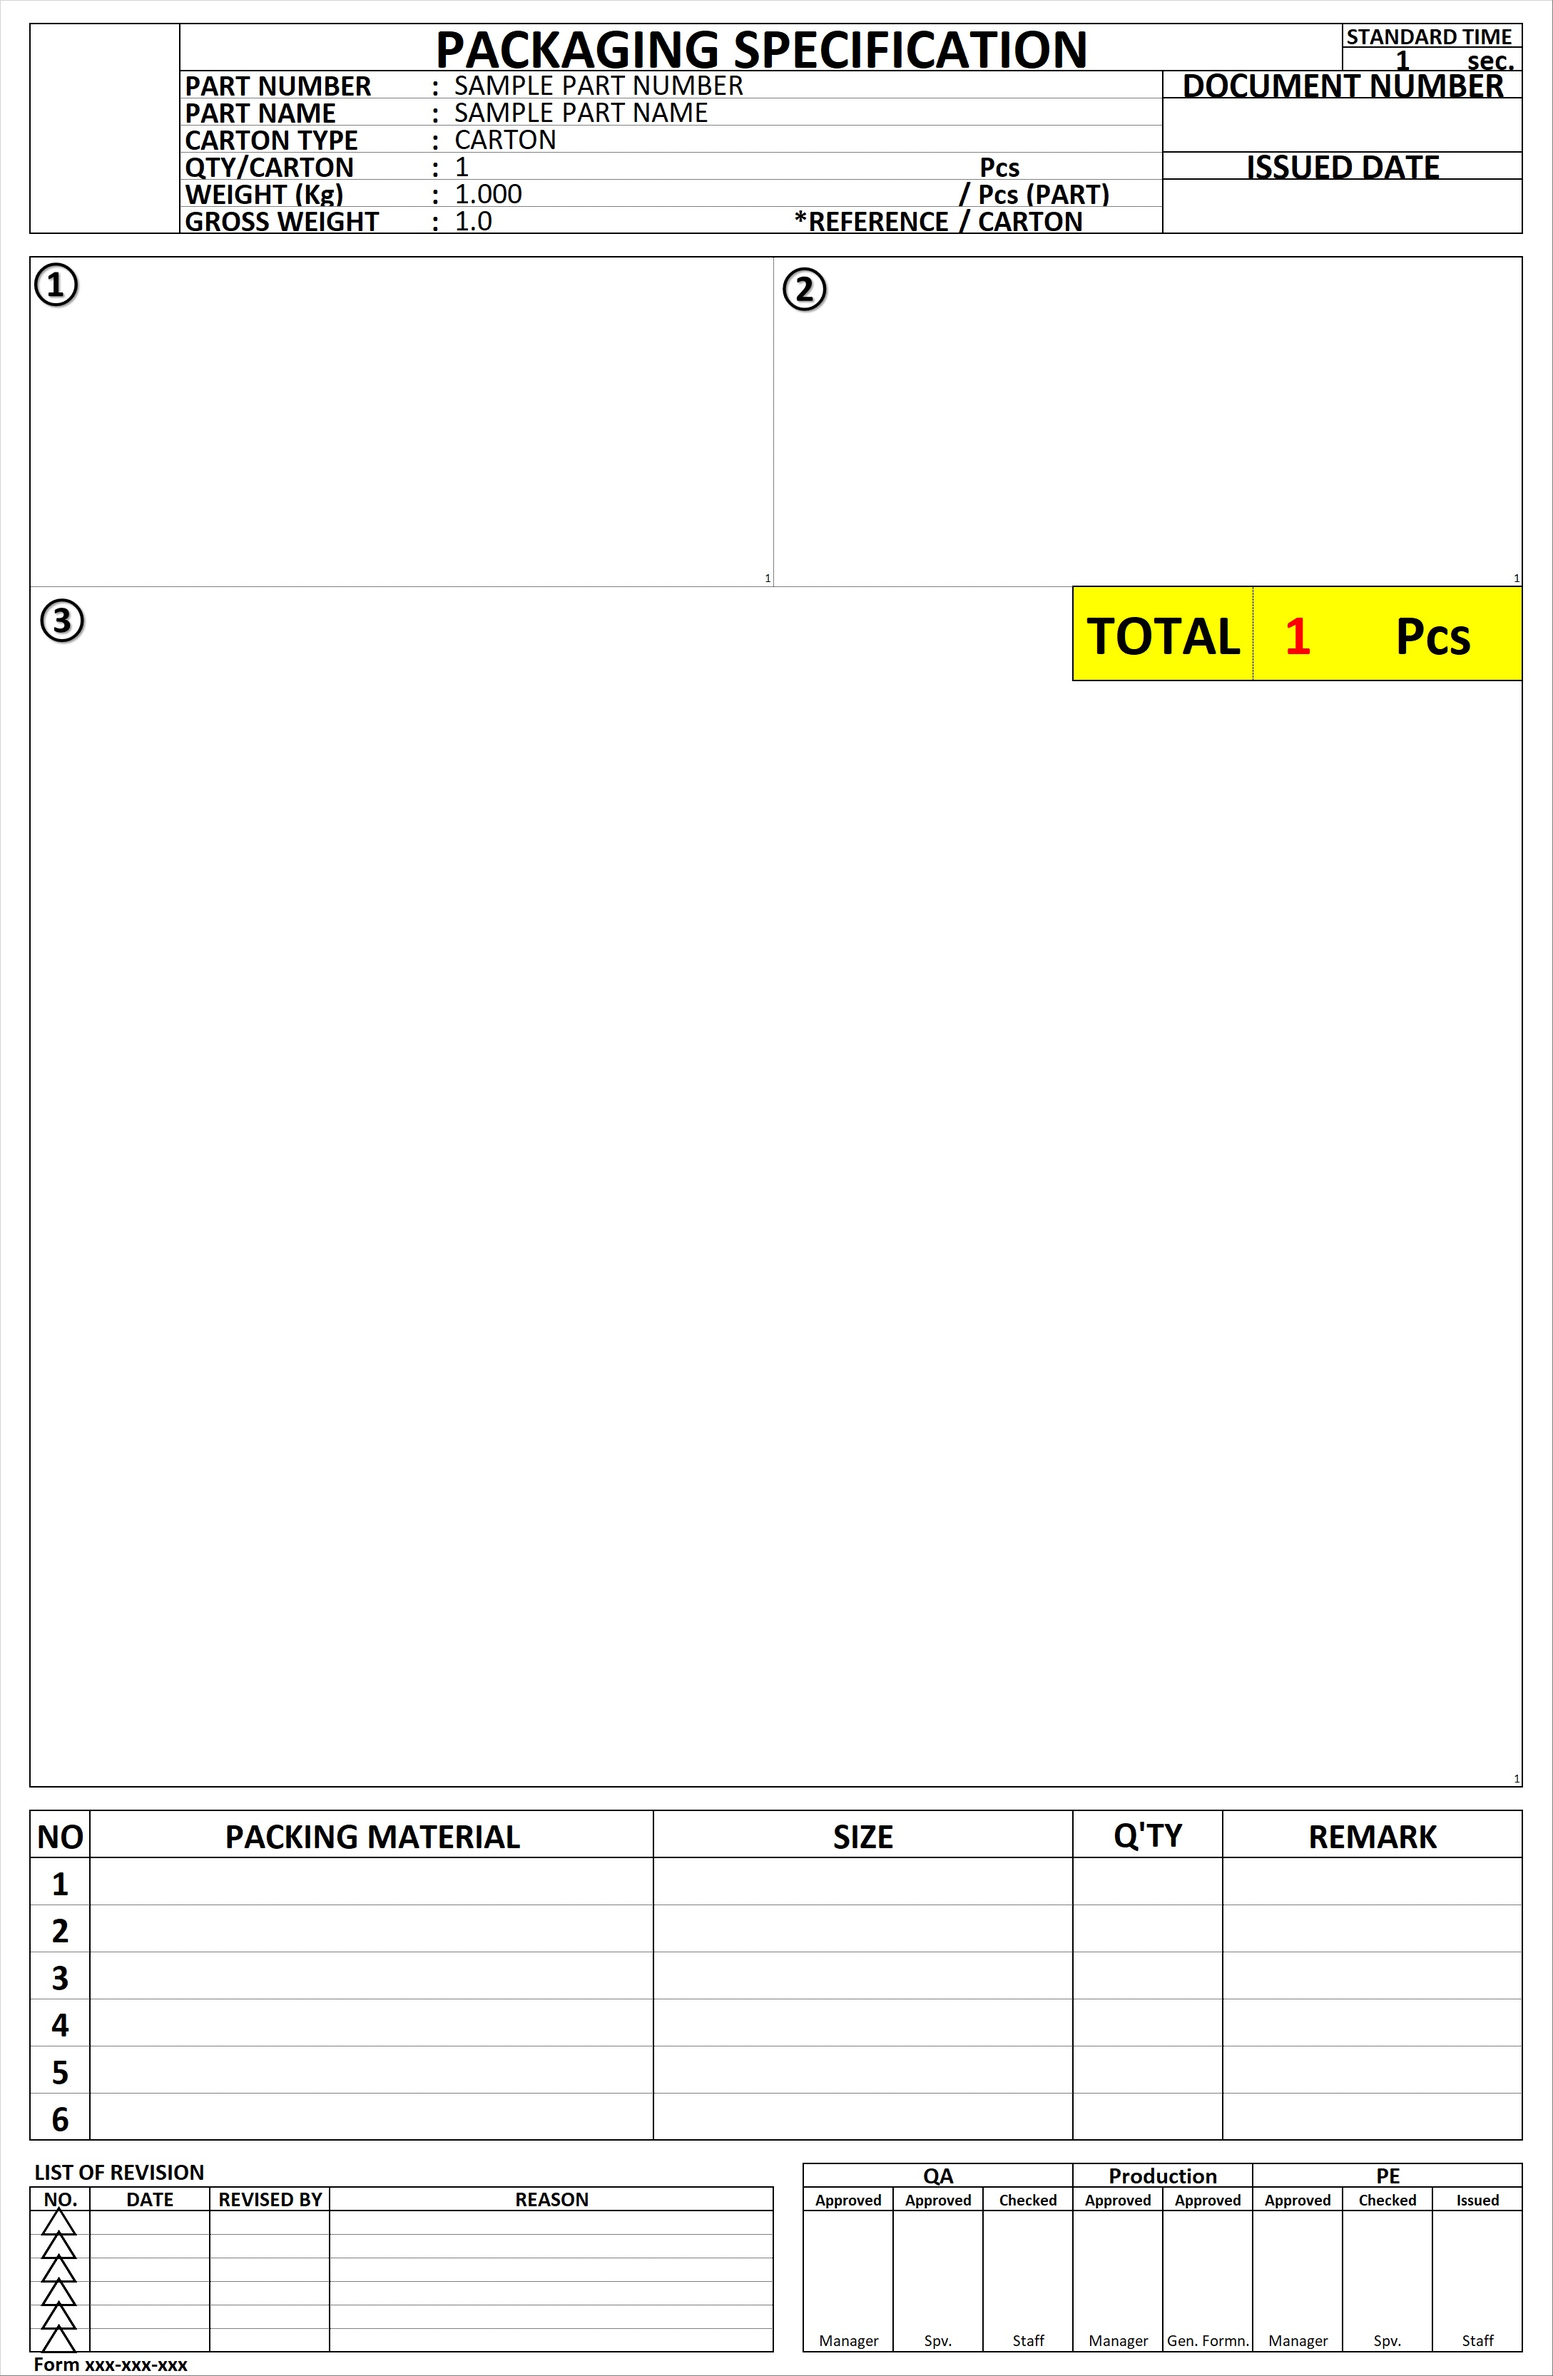
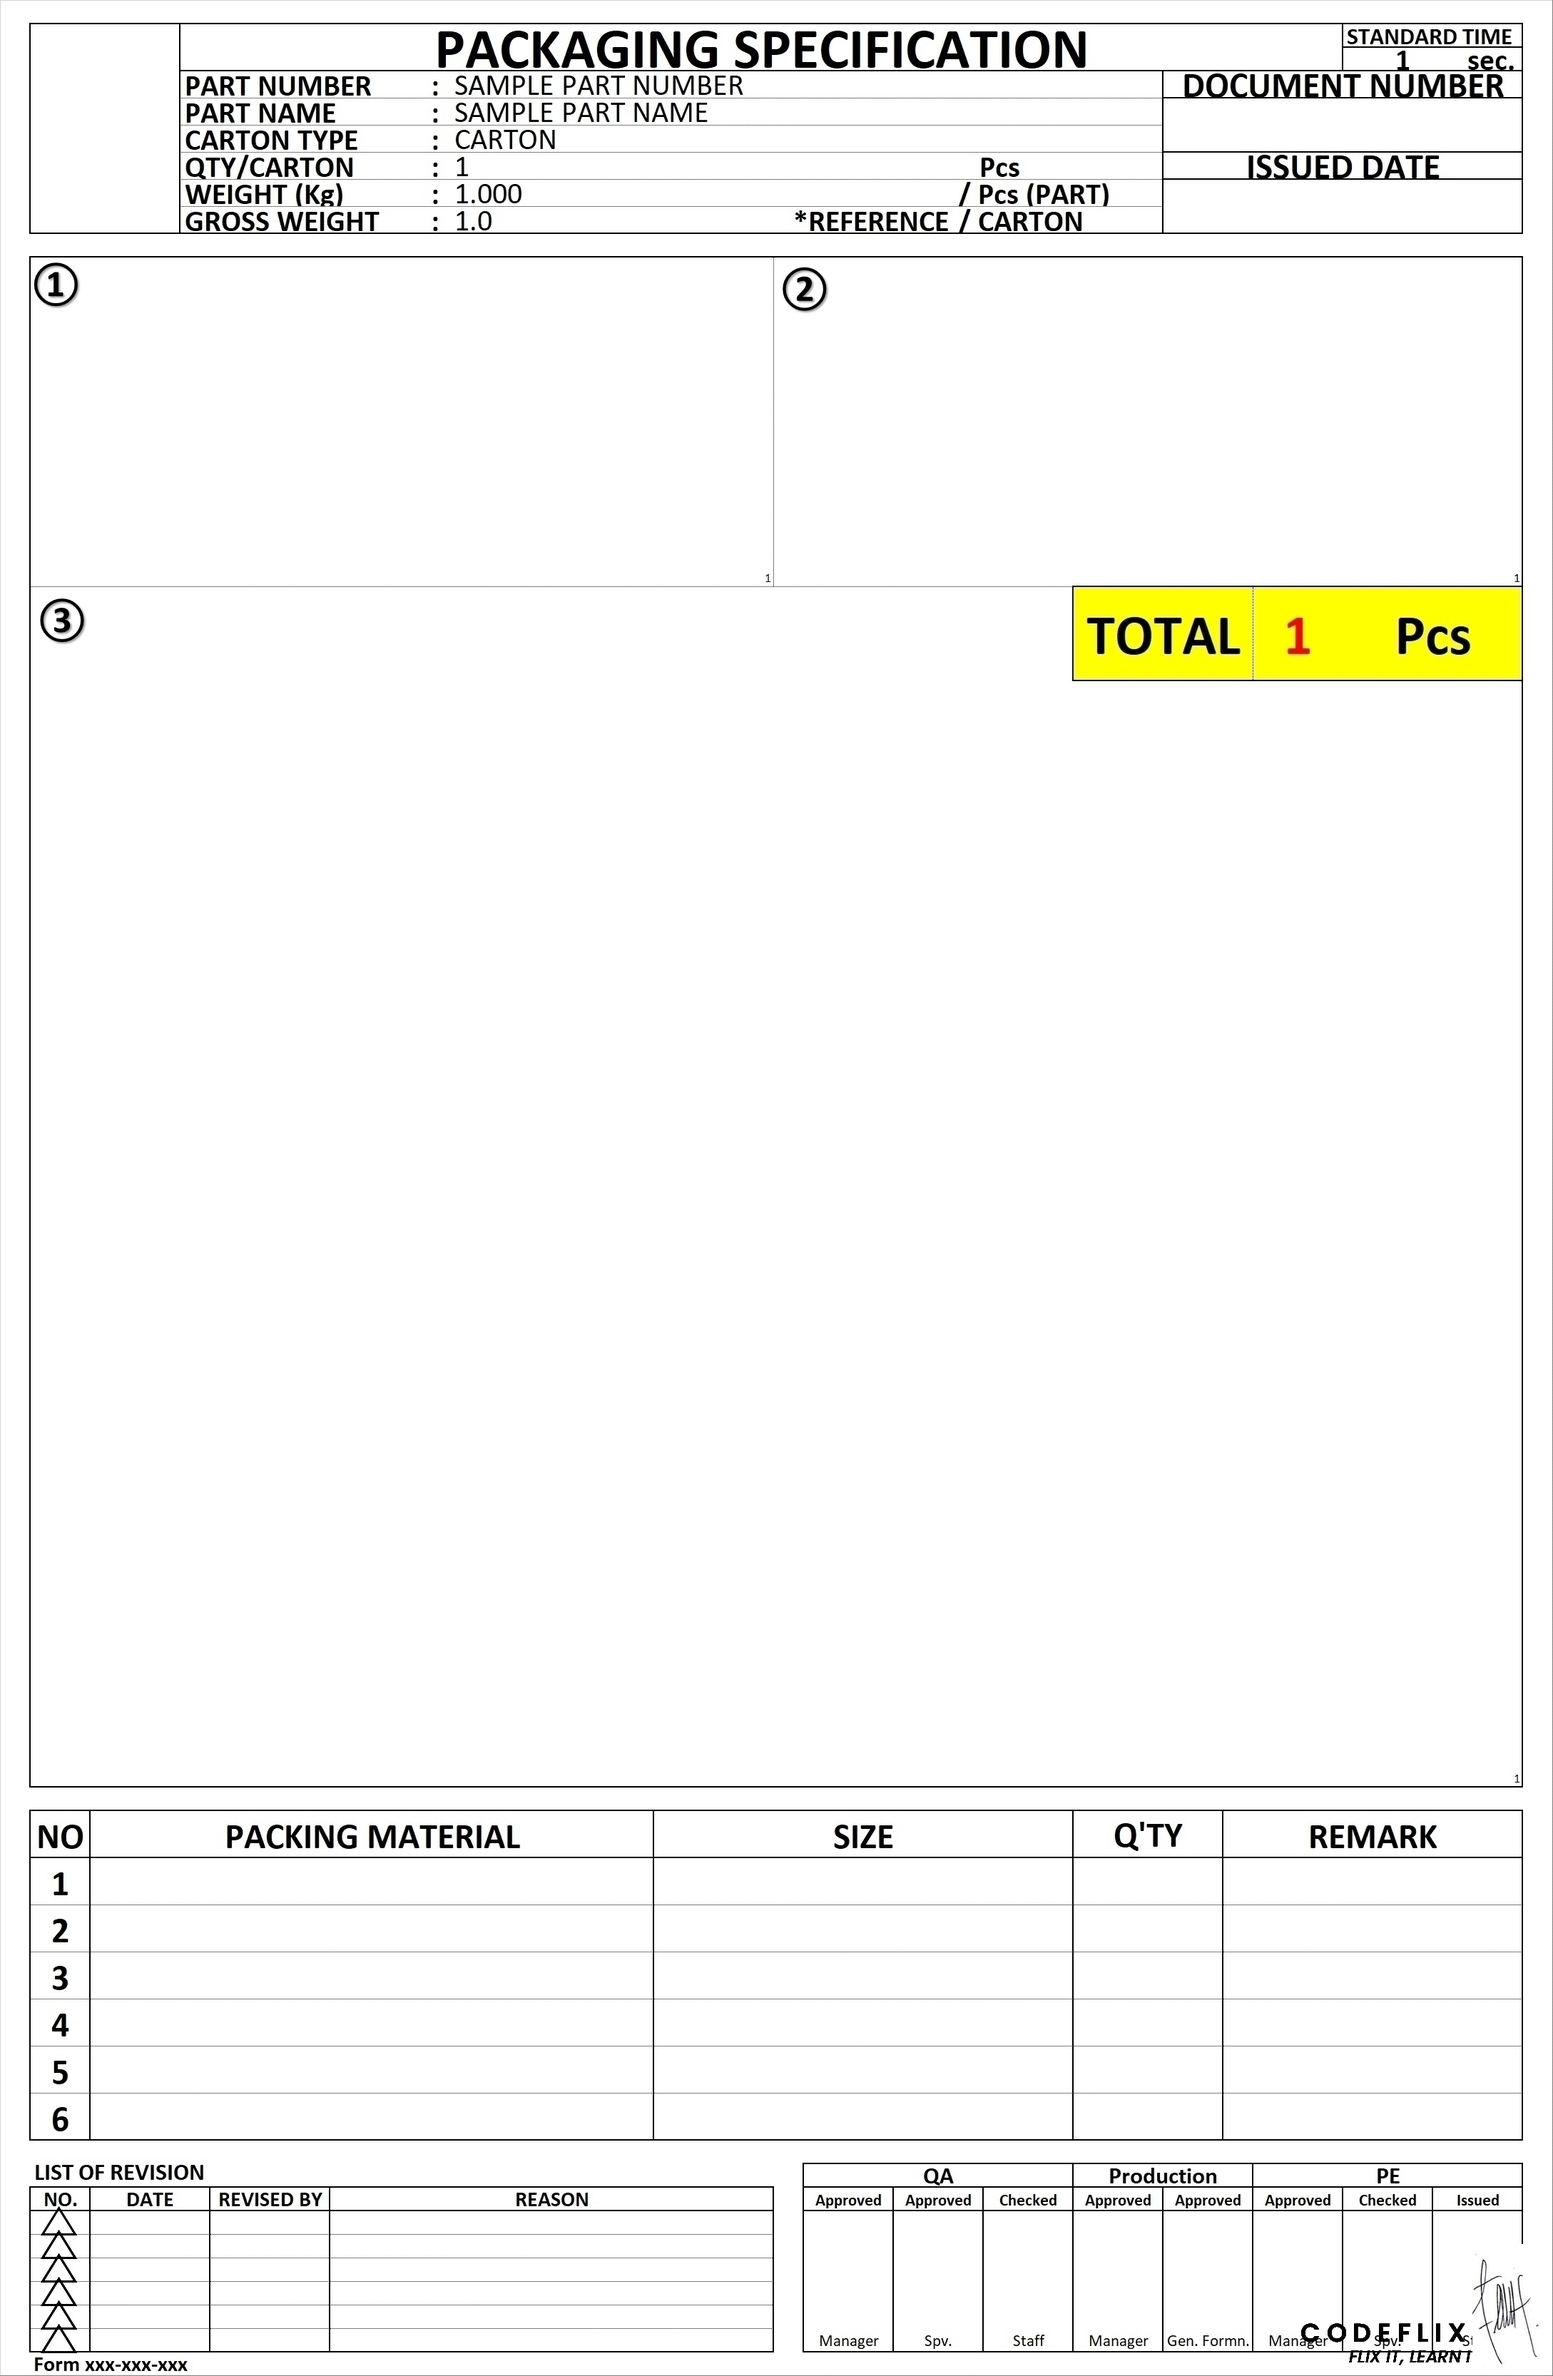
merge success

diff --git a/approve.php b/approve.php
@@ -6,10 +6,10 @@
           header("Location: login.php");
           die();
       }
-      function mergedoc($sources, $destinations, $signatures, $mr, $mb)
+      function mergedoc($sources, $signatures, $mr, $mb)
       {
         $source = $sources; //namefile.jpg
-        $destination = $destinations; //destination folder
+        // $destination = $sources; //destination folder
         $watermark = imagecreatefrompng($signatures); //ttd.png
         $margin_right = $mr; //10
         $margin_bottom = $mb; //10
@@ -17,7 +17,7 @@
         $sy = imagesy($watermark);
         $img = imagecreatefromjpeg($source);
         imagecopy($img, $watermark, imagesx($img) - $sx - $margin_right, imagesy($img) - $sy - $margin_bottom, 0, 0, $sx, $sy);
-        $i = imagejpeg($img, $destination.'/'.$source, 100);
+        $i = imagejpeg($img, $source, 100);
         imagedestroy($img);
       }
       
@@ -169,7 +169,7 @@
                             $file_data = mysqli_fetch_assoc($files);
                             $account_location = $_SESSION['role'];
 
-                            $sql = "SELECT id, file_name, file_owner, file_location, file_revise_note, revise_from, issued_on, last_update_on FROM files WHERE file_location='$account_location'";
+                            $sql = "SELECT id, file_name, file_owner, file_location, revise_from, issued_on, last_update_on FROM files WHERE file_location='$account_location'";
                             $result = $connection->query($sql);
                             if ($result->num_rows > 0) {
                               while($row = $result->fetch_assoc()) {
@@ -177,7 +177,6 @@
                                         <td>" . $row["file_name"] . "</td>
                                         <td>" . $row["file_owner"] . "</td>
                                         <td>" . $row["file_location"] . "</td>
-                                        <td>" . $row["file_revise_note"] . "</td>
                                         <td>" . $row["revise_from"] . "</td>
                                         <td>" . $row["issued_on"] . "</td>
                                         <td>" . $row["last_update_on"] . "</td>
@@ -243,15 +242,15 @@
               </div>
               <div class="modal-body">
                 Are you sure want to Sign this document?
-                <?php
-                echo $_SESSION['role'];
-                ?>
+                
               </div>
               <div class="modal-footer">
                 <button type="button" class="btn btn-secondary" data-bs-toggle="modal"
                   data-bs-target="#checkDocModal">Cancel</button>
-                <button id="mergeButton" type="button" class="btn btn-success" data-bs-dismiss="modal"
-                  onclick="merge();">Yes</button>
+                <form action="sign.php" method="get">
+                  <input type="hidden" id="testname" name="sources">
+                  <input type="submit" class="btn btn-success">
+                </form>
               </div>
             </div>
           </div>
@@ -281,6 +280,9 @@
   <script type="text/javascript" src="js/jquery.form.min.js"></script>
 
   <script>
+    function testtt(){
+      console.log("ASdsa");
+    }
     $("#confirmApprove").on("click", function () {
       $('#approveDocModal').modal('show');
     });
@@ -289,31 +291,9 @@
       var _filename = filename
       document.querySelector("#imgdata").src = "packing-spec/under-approval/" + _filename;
       localStorage.setItem('tempfile', filename);
-      '<%=Session["tempfileee"]%>' = filename;
+      document.getElementById("testname").value = filename;
+      document.cookie="profile_viewer_uid=1";
     }
-    // $(function () {
-    //   $("#mergeButton").click(function () {
-    //     html2canvas(document.querySelector("#canvas_id"), {
-    //       onrendered: function (canvas) {
-    //         var imgsrc = canvas.toDataURL("image/png");
-    //         console.log(imgsrc);
-    //         // $("#newimg").attr('src', imgsrc);
-    //         // $("#img").show();
-    //         var dataURL = canvas.toDataURL();
-    //         $.ajax({
-    //           type: "POST",
-    //           url: "script.php",
-    //           data: {
-    //             imgBase64: dataURL
-    //           }
-    //         }).done(function (o) {
-    //           console.log('saved');
-    //         });
-    //       }
-    //     });
-    //   });
-    // });
-
   </script>
 
   <script src="vendor/bootstrap/js/bootstrap.bundle.min.js"></script>
@@ -343,23 +323,6 @@
         context.drawImage(imageObj2, 200, 700, 1000, 1700);
       };
     }
-
-    // function injectSvgSprite(path) {
-
-    //   var ajax = new XMLHttpRequest();
-    //   ajax.open("GET", path, true);
-    //   ajax.send();
-    //   ajax.onload = function (e) {
-    //     var div = document.createElement("div");
-    //     div.className = 'd-none';
-    //     div.innerHTML = ajax.responseText;
-    //     document.body.insertBefore(div, document.body.childNodes[0]);
-    //   }
-    // }
-    // this is set to BootstrapTemple website as you cannot 
-    // inject local SVG sprite (using only 'icons/orion-svg-sprite.svg' path)
-    // while using file:// protocol
-    // pls don't forget to change to your domain :)
     injectSvgSprite('https://bootstraptemple.com/files/icons/orion-svg-sprite.svg');
 
 

diff --git a/login-check.php b/login-check.php
@@ -20,15 +20,15 @@ if($check > 0){
 	$roleData = mysqli_query($connection,"SELECT * FROM role WHERE role_id = $id_role");
 	$AR_roleData = mysqli_fetch_assoc($roleData);
 
-	$progressSumary = mysqli_query($connection, "SELECT * FROM summary");
-	$AR_summaryData = mysqli_fetch_assoc($progressSumary);
+	// $progressSumary = mysqli_query($connection, "SELECT * FROM summary");
+	// $AR_summaryData = mysqli_fetch_assoc($progressSumary);
 
-	$_SESSION['summaryIssued'] = $AR_summaryData['issued'];
-	$_SESSION['summaryNeedRevise'] = $AR_summaryData['need_revise'];
-	$_SESSION['summaryApproved'] = $AR_summaryData['approved'];
+	// $_SESSION['summaryIssued'] = $AR_summaryData['issued'];
+	// $_SESSION['summaryNeedRevise'] = $AR_summaryData['need_revise'];
+	// $_SESSION['summaryApproved'] = $AR_summaryData['approved'];
 
 	//For Common User
-    if($id_role['role_name']!='Superuser'){
+    if($AR_roleData['role_name']!='Superuser'){
         // buat session login dan username
 		$_SESSION['username'] = $username;
 		$_SESSION['name'] = $AR_loginData['nama_user'];

diff --git a/sign.php b/sign.php
@@ -1,0 +1,23 @@
+<?php
+session_start();
+$sources = "packing-spec/under-approval/".$_GET['sources'];
+$signatures = "signature/".$_SESSION['username'].".png";
+$mr = 10;
+$mb = 10;
+// $sources = $_GET['sources'];
+// $signatures = $_GET['signatures'];
+// $mr = $_GET['mr'];
+// $mb = $_GET['mb'];
+$source = $sources; //namefile.jpg
+$watermark = imagecreatefrompng($signatures); //ttd.png
+$margin_right = $mr; //10
+$margin_bottom = $mb; //10
+$sx = imagesx($watermark);
+$sy = imagesy($watermark);
+$img = imagecreatefromjpeg($source);
+imagecopy($img, $watermark, imagesx($img) - $sx - $margin_right, imagesy($img) - $sy - $margin_bottom, 0, 0, $sx, $sy);
+$i = imagejpeg($img, $source, 100);
+imagedestroy($img);
+
+header("location:approve.php");
+?>
